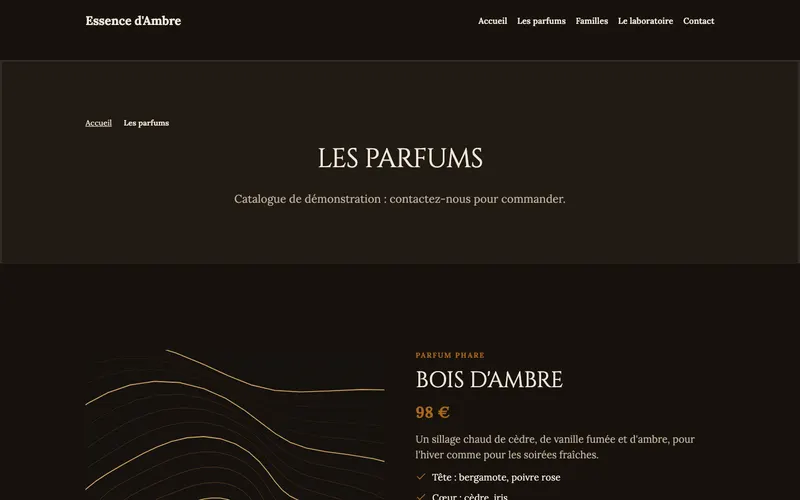
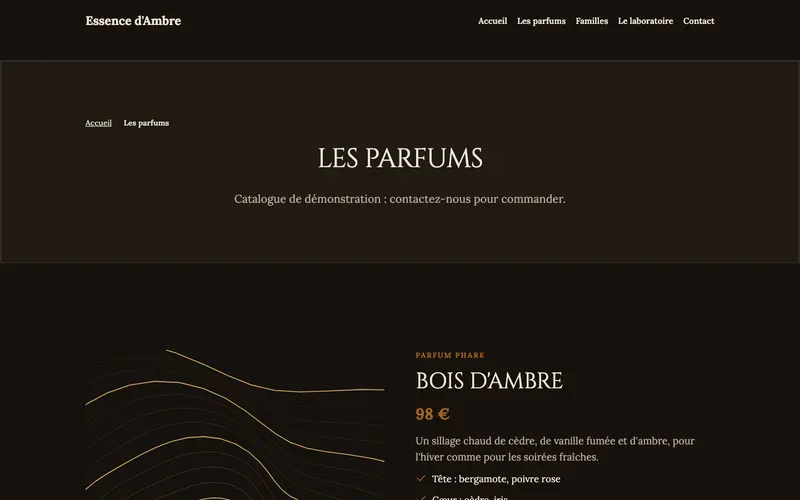
feat(themes): audit responsive, un seul titre de niveau 1 par page, documentation, aperçus à jour

Changed region(s): [[0.5, 0.87, 0.875, 1.0], [0.5, 0.72, 0.7188, 0.78], [0.5, 0.81, 0.5625, 0.84]]

diff --git a/src/marketing/themes/library/compose.js b/src/marketing/themes/library/compose.js
@@ -256,6 +256,10 @@ function buildPage(c, blocks) {
     if (!fn) throw new Error(`Variante inconnue : ${name}`);
     out.push(...fn(c, params));
   }
+  // Un seul titre de niveau 1 par page (accessibilité, référencement) : les suivants deviennent des titres de niveau 2 sans changer leur apparence
+  let seenH1 = false;
+  const walk = (n) => { if (Array.isArray(n)) return n.forEach(walk); if (!n || typeof n !== "object") return; if (n.type === "heading" && n.props && n.props.level === "1") { if (seenH1) n.props.level = "2"; else seenH1 = true; } if (n.children) walk(n.children); };
+  walk(out);
   // La colonne de page ajoute un retrait en haut et en bas (.lp-main) : la première et la dernière bande le reprennent pour toucher les bords
   const box = (sec) => (sec && sec.type === "layout" && sec.children && sec.children[0] && sec.children[0].styles) || null;
   const first = box(out[0]), last = box(out[out.length - 1]);

diff --git a/tests/themes-bibliotheque-navigateur.test.js b/tests/themes-bibliotheque-navigateur.test.js
@@ -115,7 +115,7 @@ describe("Thèmes : navigateur réel", { skip: SKIP }, () => {
     await page.waitForURL(new RegExp(`page=${s.pages[1].key}`));
     assert.match(await page.frameLocator("[data-tp-frame]").locator("h1").first().innerText(), /\S/);
     const font = require("../src/utils/fontLibrary").byId(s.tokens.fonts.heading);
-    if (font) assert.equal(await page.frames().find((f) => f !== page.mainFrame()).evaluate((fam) => document.fonts.check(`16px "${fam}"`), font.family), true, "police de titre chargée");
+    if (font) assert.equal(await page.frames().find((f) => f !== page.mainFrame()).evaluate((fam) => [...document.fonts].some((f) => f.family.replace(/["']/g, "") === fam && f.status === "loaded"), font.family), true, "police de titre chargée");
     await shot(page, "apercu-bureau");
     await page.context().close();
     assert.deepEqual(errors, [], errors.join("\n"));

diff --git a/scripts/themes-responsive.js b/scripts/themes-responsive.js
@@ -32,7 +32,7 @@ const WIDTHS = [["ordinateur", 1440, 900], ["tablette", 820, 1100], ["telephone"
           overflow: document.documentElement.scrollWidth - window.innerWidth,
           broken: [...document.images].filter((im) => im.offsetParent !== null && im.complete && im.naturalWidth === 0).length,
           h1: document.querySelectorAll("h1").length,
-          font: family ? document.fonts.check(`16px "${family}"`) : true,
+          font: family ? [...document.fonts].some((f) => f.family.replace(/['"]/g, "") === family && f.status === "loaded") : true,
           title: document.title.length > 0,
         }), heading ? heading.family : null);
         await ctx.close();

diff --git a/docs/KOLAKISA_THEMES.md b/docs/KOLAKISA_THEMES.md
@@ -1,0 +1,50 @@
+# Bibliothèque de thèmes Kolakisa (Apparence → Thèmes)
+
+Cette bibliothèque propose **160 thèmes complets** (21 catégories). Le catalogue est partagé ; l'état (installé, actif), les réglages et les pages créées sont **propres à chaque site**.
+
+## Ce qu'est un thème
+Un thème est un paquet de **données** (aucun code n'est exécuté) :
+1. des **jetons de design** (couleurs, polices, rayons, ombres, boutons) : c'est ce que l'activation applique au site, avec le moteur d'apparence existant (`services/themes.js` → réglages du site, ou apparence publiée du site principal) ;
+2. un **site de démonstration** : 4 à 6 pages utiles au métier + une page de recherche et une page « introuvable » (ajoutées automatiquement), composées de **vraies sections du Page Builder** (donc modifiables dans l'éditeur existant : aucun éditeur parallèle) ;
+3. des **visuels originaux** générés par Kolakisa ;
+4. des métadonnées : catégorie, styles, type de site, modules requis, aperçus.
+
+## Où est le code
+| Élément | Fichier |
+|---|---|
+| Fiches des 160 thèmes | `src/marketing/themes/library/specs/*.js` (guide d'écriture : `specs/README.md`) |
+| Moteur de composition (85 variantes de mise en page) | `src/marketing/themes/library/compose.js` |
+| Visuels SVG originaux (16 motifs, palette du thème) | `src/marketing/themes/library/art.js`, servis par `/themes-art/<thème>/<emplacement>.svg` |
+| Registre, catégories, contrôles de fiche | `src/marketing/themes/library/index.js` (`problems()` doit être vide) |
+| Contrôles de qualité (pages valides, contrastes AA, diversité) | `src/marketing/themes/library/verify.js`, `scripts/themes-check.js` |
+| Catalogue installable | `src/marketing/themes/catalog.js` (les manifestes de la bibliothèque y sont ajoutés) |
+| Installation, activation, galerie filtrable, pages de démonstration | `src/services/themes.js` |
+| Écrans : galerie, fiche, aperçu | `src/marketing/web/themes.js`, vues `themes.ejs`, `themes-detail.ejs`, `themes-preview.ejs` |
+| Aperçu complet isolé et visuels publics | `src/marketing/web/themeDemo.js`, `themeArtPublic.js` |
+| Aperçus WebP (accueil, page intérieure, mobile) | `public/img/theme-previews/<clé>-{home,inner,mobile}.webp`, produits par `scripts/themes-previews.js` |
+| Audit responsive | `scripts/themes-responsive.js` |
+| Registre des ressources (polices, licences, visuels) | `scripts/themes-registre.js` → `docs/KOLAKISA_THEMES_REGISTRE.md` |
+
+## Parcours utilisateur
+- **Galerie** : recherche instantanée (nom, secteur, style, sans tenir compte des accents), catégories, style, affichage (tous / installés / disponibles), tri (pertinence, nom, nouveautés), pagination côté serveur (fonctionne aussi sans JavaScript), thèmes recommandés, thème actif en tête avec « Personnaliser » (le personnalisateur existant : aucun second panneau).
+- **Prévisualiser** : le site de démonstration complet, **isolé** (aucune page, aucun média ni article du site n'est lu ; rien n'est écrit), page par page, avec choix de l'appareil. « Voir ce thème avec le contenu de mon site » reprend l'aperçu historique.
+- **Installer** puis **Utiliser ce thème** : deux actions distinctes. À l'activation, on peut ajouter les **pages de démonstration en brouillon** (jamais publiées, jamais en remplacement : les noms sont libres) et un menu.
+- **Changer de thème ne supprime jamais de contenu** : seules les couleurs, polices et formes changent ; « Revenir au thème précédent » rétablit l'apparence d'avant ; les couleurs personnalisées du site sont conservées.
+- Droits : `appearance.read` (voir), `appearance.styles` (installer), `appearance.publish` (activer, supprimer), `forms.write` (pages de démonstration). Un accès limité à un site ne touche que ce site.
+
+## Multi-sites
+Le moteur et le catalogue sont partagés (aucune copie du moteur par site). Chaque site a ses propres lignes d'installation (`cms_themes.site_id`), son thème actif et ses jetons ; le site vient de l'adresse vérifiée par le serveur. L'aperçu isolé n'utilise aucune donnée du site.
+
+## Images et licences
+Tous les visuels des thèmes sont des **illustrations vectorielles originales générées par Kolakisa** : pas de photographie, pas d'image tierce, aucune attribution. Conditions relues le 23/10/2026 : Pexels interdit de « redistribuer ou vendre les photos sur d'autres plateformes » et de vendre des copies non modifiées (la page ne traite pas de l'inclusion dans une bibliothèque de thèmes distribuée) ; Unsplash interdit de compiler ses images « pour reproduire un service similaire ou concurrent ». Aucun droit de redistribution dans un produit n'étant établi, aucune photo tierce n'est livrée : les photos réelles se choisissent dans la médiathèque du site (remplacement en un clic dans l'éditeur). Polices : bibliothèque de polices libres de Kolakisa (licences dans son manifeste), hébergées localement. Le détail par thème est dans `KOLAKISA_THEMES_REGISTRE.md`.
+
+## Contrôles et tests
+- `node scripts/themes-check.js --strict` : 160 thèmes, répartition exacte, chaque page validée par le moteur du Page Builder, contrastes WCAG AA, diversité (mises en page, polices, teintes), aucune fiche écartée.
+- `scripts/themes-responsive.js` : chaque thème, 3 pages × 3 largeurs (1440, 820, 390 px) en vrai Chrome : pas de défilement horizontal, pas d'erreur de page, pas d'image cassée, un seul titre de niveau 1, police de titre chargée.
+- Tests : `themes-bibliotheque.test.js` (catalogue, 160 fiches, aperçus WebP réels et tous différents, visuels), `themes-bibliotheque-http.test.js` (galerie, filtres, aperçu, installation, activation, pages de démonstration, droits, isolation), `themes-bibliotheque-navigateur.test.js` (Chrome réel), `apparence-themes.test.js` (parcours historique adapté).
+
+## Limites connues (dites honnêtement)
+- Les visuels sont des illustrations, pas des photographies.
+- L'activation applique les **jetons** (couleurs, polices, formes) ; la structure d'une page vient des pages de démonstration, que l'on ajoute volontairement. L'en-tête et le pied de page d'un thème sont des sections de ces pages, pas des parties globales du site.
+- Boutiques : le module e-commerce n'existe pas encore ; les thèmes de boutique montrent un catalogue de démonstration et le déclarent (`modules`). Aucun panier ni paiement n'est simulé. Les listes d'articles (`misc:posts`) et de formations (`misc:courses`) lisent les vrais contenus du site et sont vides tant qu'il n'y en a pas.
+- Les textes, personnes, entreprises et coordonnées des démonstrations sont fictifs.
